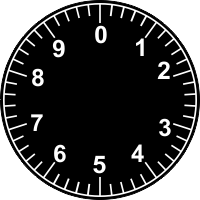
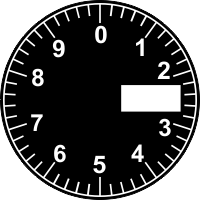
Změna v budíkách ;-)

Changed region(s): [[0.6, 0.42, 0.93, 0.57]]

diff --git a/GJAProject/src/cz/vutbr/fit/gja/proj/AltPanel.java b/GJAProject/src/cz/vutbr/fit/gja/proj/AltPanel.java
@@ -7,17 +7,21 @@ import javax.imageio.*;
 import java.awt.image.*;
 import java.awt.geom.AffineTransform;
 
-public class AltPanel extends JPanel
+public class AltPanel extends JPanel implements PanelInterface
 {
   private static Image img1 = null;
   private static Image img2 = null;
   private static Image img3 = null;
-  private static double rotation1 = 270.0;
-  private static double rotation2 = 80.0;
+  private static double rotation1 = 50.0;
+  private static double rotation2 = 20.0;
+  private static Font f = null;
+  private String speed = null;
           
   public AltPanel()
   {
     super();
+    f = new Font("Arial", Font.BOLD, 24);
+    speed = new String("125");
     try
     {
       img1 = ImageIO.read(getClass().getResourceAsStream("resources/Alt.png"));
@@ -35,6 +39,16 @@ public class AltPanel extends JPanel
     }
   }
   
+  public void loadData()
+  {
+  
+  }
+  
+  public void setData()
+  {
+  
+  }
+  
   @Override
   public void paintComponent(Graphics g)
   {
@@ -43,9 +57,12 @@ public class AltPanel extends JPanel
     {
       g2d.drawImage(img1, 0, 0, null);
       g2d.rotate(Math.toRadians(rotation2), 100, 100);
-      g2d.drawImage(img3, 91, 50, null);
+      g2d.drawImage(img3, 90, 52, null);
       g2d.rotate(Math.toRadians(-rotation2+rotation1), 100, 100);
       g2d.drawImage(img2, 90, 28, null);
+      g2d.rotate(Math.toRadians(-rotation1), 100, 100);
+      g2d.setFont(f);
+      g2d.drawString(speed, 132, 107);
     }
     else
     {

diff --git a/GJAProject/src/cz/vutbr/fit/gja/proj/SpeedPanel.java b/GJAProject/src/cz/vutbr/fit/gja/proj/SpeedPanel.java
@@ -7,7 +7,7 @@ import javax.imageio.*;
 import java.awt.image.*;
 import java.awt.geom.AffineTransform;
 
-public class SpeedPanel extends JPanel
+public class SpeedPanel extends JPanel implements PanelInterface
 {
   private static Image img1 = null;
   private static Image img2 = null;
@@ -24,6 +24,36 @@ public class SpeedPanel extends JPanel
       this.setMinimumSize(d);
       this.setMaximumSize(d);
       this.setPreferredSize(d);
+      revalidate();
+    }
+    catch(IOException ex)
+    {
+      System.out.println("Iamge not load");
+    }
+  }
+
+  public void loadData()
+  {
+  
+  }
+  
+  public void setData()
+  {
+  
+  }
+  
+  public void changeSpeed(boolean slow)
+  {
+    try
+    {
+      if(slow)
+      {
+        img1 = ImageIO.read(getClass().getResourceAsStream("resources/Speed2.png"));  
+      }
+      else
+      {
+        img1 = ImageIO.read(getClass().getResourceAsStream("resources/Speed.png"));  
+      }
       revalidate();
     }
     catch(IOException ex)

diff --git a/GJAProject/src/cz/vutbr/fit/gja/proj/PanelInterface.java b/GJAProject/src/cz/vutbr/fit/gja/proj/PanelInterface.java
@@ -1,0 +1,7 @@
+package cz.vutbr.fit.gja.proj;
+
+public interface PanelInterface 
+{
+  public void loadData();
+  public void setData();
+}
